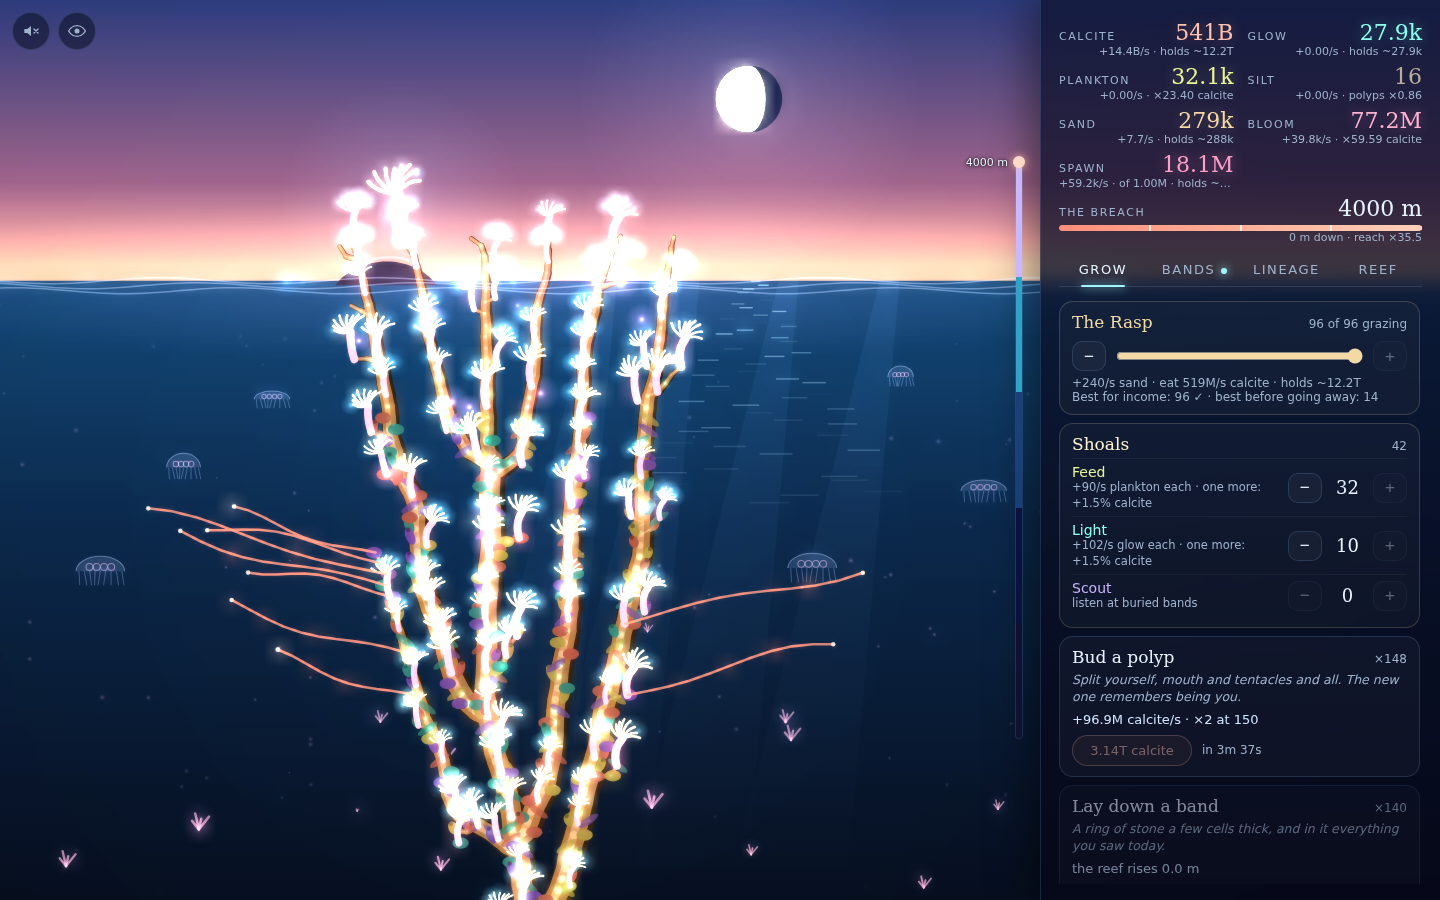
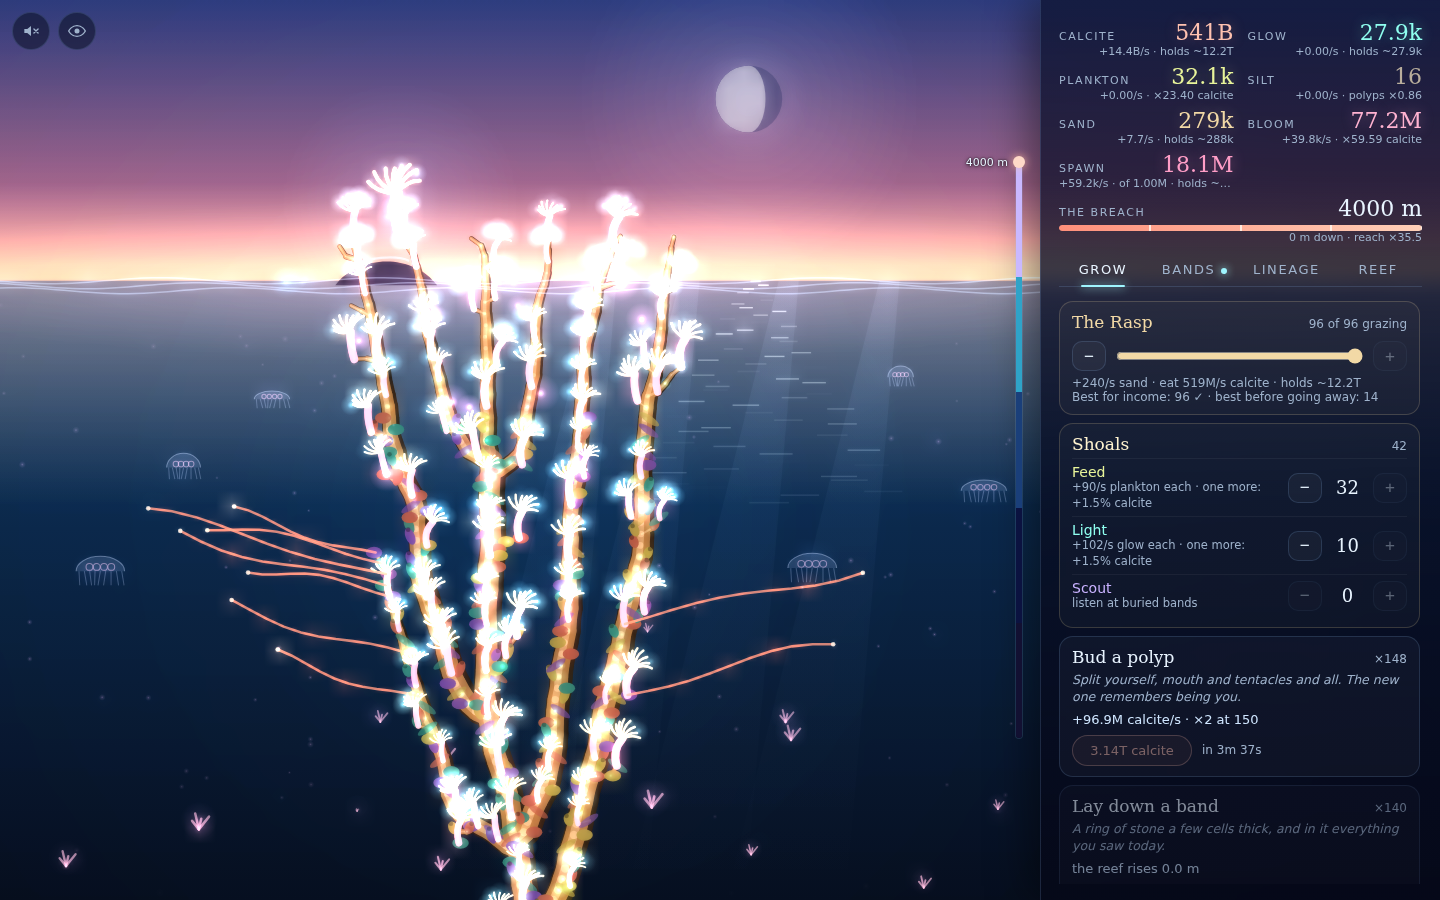
Dawn: the moon pales, the surface water warms

Changed region(s): [[0.0, 0.3111, 0.75, 0.5289], [0.4688, 0.0622, 0.5625, 0.1556]]

diff --git a/src/game/render/breach.ts b/src/game/render/breach.ts
@@ -131,10 +131,13 @@ export function createBreachScene(seed: number): Scene {
     glow(ctx, mx, my, r * 5, great ? '255,215,160' : '230,230,200', (great ? 0.22 : 0.15) * lit + 0.03);
     if (great) glow(ctx, mx, my, r * 2.2, '255,200,150', 0.18 * lit);
     ctx.restore();
+    ctx.save();
+    ctx.globalAlpha = 1 - 0.65 * dawn;
     drawMoon(ctx, mx, my, r, phase);
+    ctx.restore();
   }
 
-  function drawSea(ctx: CanvasRenderingContext2D, t: number, phase: number): void {
+  function drawSea(ctx: CanvasRenderingContext2D, t: number, phase: number, dawn = 0): void {
     const wy = waterY();
     const g = ctx.createLinearGradient(0, wy, 0, h);
     g.addColorStop(0, '#103a5a');
@@ -142,6 +145,14 @@ export function createBreachScene(seed: number): Scene {
     g.addColorStop(1, '#030a18');
     ctx.fillStyle = g;
     ctx.fillRect(0, wy, w, h - wy);
+    // At dawn the surface water takes the sky's warm colour, fading with depth.
+    if (dawn > 0) {
+      const d = ctx.createLinearGradient(0, wy, 0, wy + focus.h * 0.25);
+      d.addColorStop(0, `rgba(255,170,140,${0.35 * dawn})`);
+      d.addColorStop(1, 'rgba(255,170,140,0)');
+      ctx.fillStyle = d;
+      ctx.fillRect(0, wy, w, focus.h * 0.25);
+    }
     const lit = 1 - Math.abs(phase - 0.5) * 2;
     const [mx] = moonPos();
     ctx.save();
@@ -554,7 +565,7 @@ export function createBreachScene(seed: number): Scene {
       // Dawn comes up over the three minutes after the release, then holds.
       const dawn = v.sinceBreach > 30 ? Math.min(1, (v.sinceBreach - 30) / 180) : 0;
       drawSky(ctx, t, v.moonPhase, v.greatMoon, dawn);
-      drawSea(ctx, t, v.moonPhase);
+      drawSea(ctx, t, v.moonPhase, dawn);
       drawChildren(ctx, v, t);
       drawMoonJellies(ctx, t);
       drawDolphins(ctx, t);
